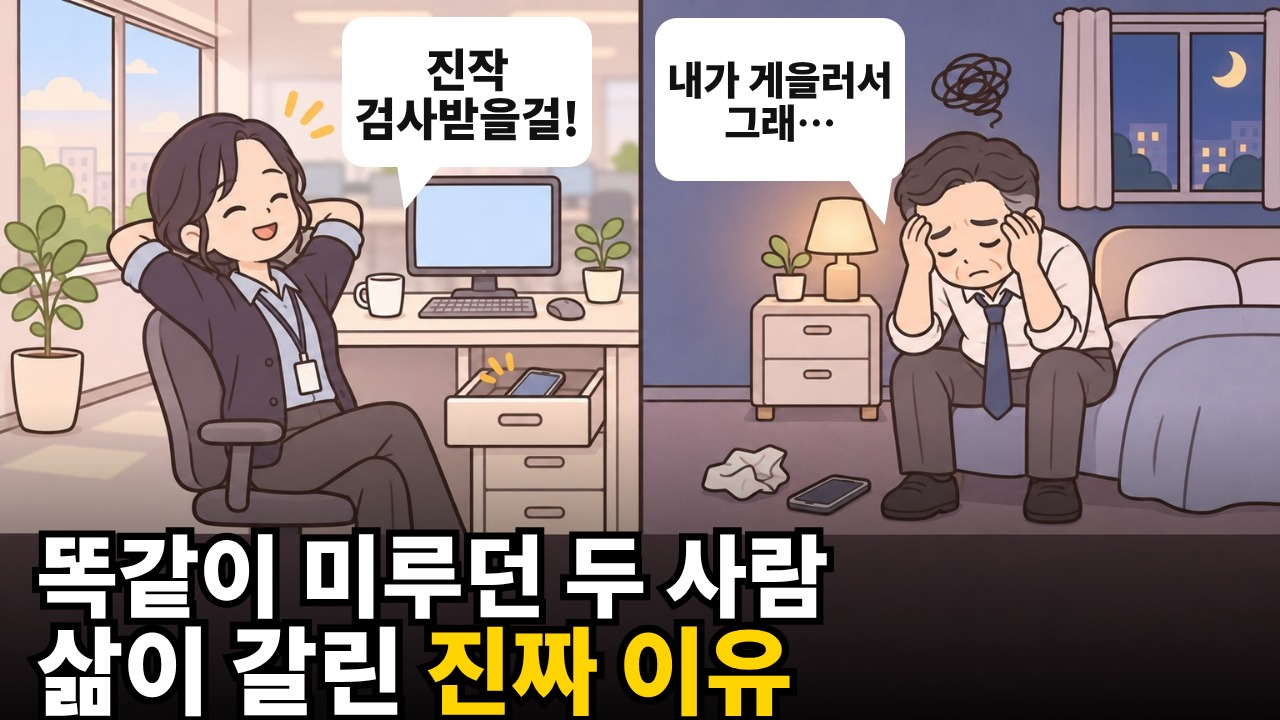
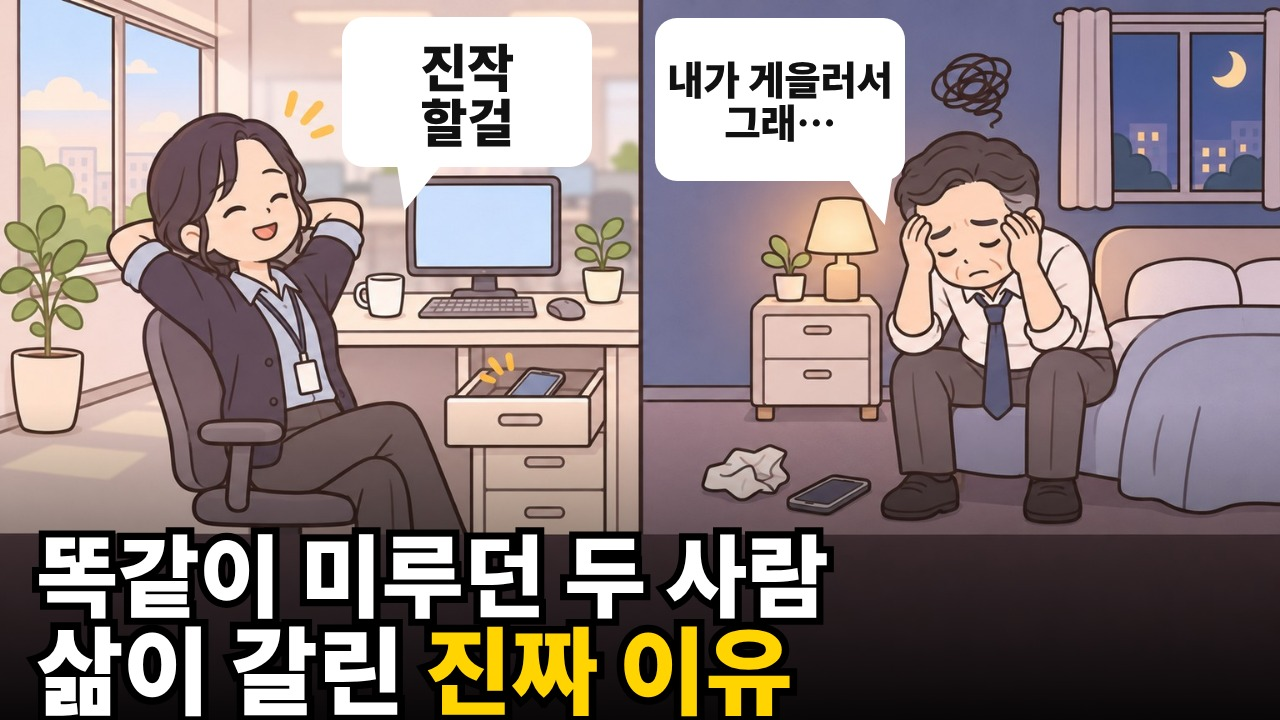
psychology: ADHD 썸네일 A 말풍선 「진작 할걸」 · ADHD 영상 제목·태그 낱말 세기 (adhd_words.py v1.0)
- thumbs_build.py v1.6 · package.json thumb_subs
- adhd_words.py v1.0 → result/topics/adhd_words.md (137개 제목 · 97개 태그, videos.list 3단위, 캐시)

Claude-Session: https://claude.ai/code/session_01PYG2MqrRa1FwGcWhbgqN1W

Changed region(s): [[0.2812, 0.0611, 0.4688, 0.2139]]

diff --git a/psychology/source/adhd_words.py b/psychology/source/adhd_words.py
@@ -1,0 +1,133 @@
+#!/usr/bin/env python3
+# -*- coding: utf-8 -*-
+# VERSION: v1.0 — 2026-11-24 — 신규: ADHD 관련 영상 제목·태그에서 많이 쓰인 낱말
+#   사용자 지시 2026-11-24 "진작 할걸 이렇게 바꾸고 ADHD 관련 영상에서 많이 쓰인 단어 알려줘봐".
+# CHANGELOG
+# | 버전 | 날짜 | 바뀐 것 | 함수 |
+# |---|---|---|---|
+# | v1.0 | 2026-11-24 | 최초 — adhd.csv 영상의 제목 낱말·태그 (videos.list snippet, 캐시) · 낱말마다 영상 수·조회수 가운데값·상위 25% 몫 | fetch · count · main |
+"""psychology/result/topics/adhd.csv (topic_success.py adhd — ADHD 관련 영상 137개, 최근 180일)의 제목 낱말과 태그를 센다.
+→ psychology/result/topics/adhd_words.md
+
+- 제목 낱말 = tools/content_analysis.py words() (끝 조사 거칠게 뗌 · 한 글자·불용어 뺌) — 한 영상에 여러 번 나와도 1번.
+- 태그 = YouTube videos.list part=snippet 의 tags (50개씩 · 1단위) — 응답은 psychology/result/topics/adhd_tags_cache.json.gz 에 두고 다시 받지 않음.
+- 낱말마다: 쓴 영상 수 · 그 영상들의 조회수 가운데값 · '조회수 상위 25%' 영상 중 몫 vs 나머지 중 몫 (배 = 상위 몫 ÷ 나머지 몫).
+한계: 최근 180일 검색 위쪽 꼬리 137개 · 낱말 규칙(형태소 분석 아님) · 인과 아님. 정신건강 정보 영상 — 연구·교육용 (의료 상담 아님).
+실행: python3 psychology/source/adhd_words.py [--offline]   (키: 환경 변수 YOUTUBE_API_KEY — 출력하지 않음)
+"""
+from __future__ import annotations
+
+import argparse
+import collections
+import csv
+import gzip
+import json
+import os
+import statistics as st
+import sys
+import time
+import urllib.parse
+import urllib.request
+from pathlib import Path
+
+ROOT = Path(__file__).resolve().parents[2]
+sys.path.insert(0, str(ROOT / "tools"))
+from content_analysis import words  # noqa: E402
+
+TOP = ROOT / "psychology" / "result" / "topics"
+CACHE = TOP / "adhd_tags_cache.json.gz"
+MIN_N = 4          # 이보다 적은 영상에 나온 낱말은 표에서 뺌
+
+
+def log(stage, **kv):
+    print(f"[{stage}] [{time.strftime('%Y-%m-%dT%H:%M:%S')}] " + " ".join(f"{k}={v}" for k, v in kv.items()), flush=True)
+
+
+def fetch(ids, offline):
+    cache = json.load(gzip.open(CACHE, "rt", encoding="utf-8")) if CACHE.exists() else {}
+    need = [i for i in ids if i not in cache]
+    if need and offline:
+        log("FETCH", level="warn", missing=len(need), note="--offline 이라 태그 없이")
+    elif need:
+        key = os.environ.get("YOUTUBE_API_KEY")
+        if not key:
+            sys.exit("[FETCH] YOUTUBE_API_KEY 없음 — 환경 변수로 넣거나 --offline")
+        for k in range(0, len(need), 50):
+            q = urllib.parse.urlencode({"part": "snippet", "id": ",".join(need[k:k + 50]), "key": key, "maxResults": 50})
+            try:
+                with urllib.request.urlopen(f"https://www.googleapis.com/youtube/v3/videos?{q}", timeout=30) as r:
+                    data = json.load(r)
+            except Exception as ex:                       # 키 값은 출력하지 않음
+                sys.exit(f"[FETCH] videos.list 실패 ({type(ex).__name__}) — 네트워크·할당량 확인 뒤 다시 (--offline 이면 태그 없이)")
+            for it in data.get("items", []):
+                cache[it["id"]] = {"tags": it["snippet"].get("tags", []), "title": it["snippet"].get("title", "")}
+            for i in need[k:k + 50]:
+                cache.setdefault(i, {"tags": [], "title": "", "missing": True})
+        with gzip.open(CACHE, "wt", encoding="utf-8") as f:
+            json.dump(cache, f, ensure_ascii=False)
+        log("FETCH", calls=(len(need) + 49) // 50, units=(len(need) + 49) // 50, cached=len(cache))
+    return cache
+
+
+def norm_tag(t):
+    t = t.strip().lower().replace(" ", "")
+    return t
+
+
+def count(rows, getter):
+    """낱말 → 영상 id 집합."""
+    m = collections.defaultdict(set)
+    for r in rows:
+        for w in set(getter(r)):
+            m[w].add(r["video_id"])
+    return m
+
+
+def table(m, rows, top_ids, title, n_show=40):
+    views = {r["video_id"]: int(r["views"]) for r in rows}
+    n_top, n_rest = len(top_ids), len(rows) - len(top_ids)
+    out = [f"## {title}", "", "| 순위 | 낱말 | 영상 수 | 몫 | 조회수 가운데값 | 상위 25% 중 몫 | 나머지 중 몫 | 배 |", "|---|---|---|---|---|---|---|---|"]
+    items = sorted(((w, ids) for w, ids in m.items() if len(ids) >= MIN_N), key=lambda x: (-len(x[1]), x[0]))
+    for i, (w, ids) in enumerate(items[:n_show], 1):
+        a = len(ids & top_ids) / n_top if n_top else 0
+        b = len(ids - top_ids) / n_rest if n_rest else 0
+        lift = f"{a / b:.1f}" if b else ("∞" if a else "—")
+        out.append(f"| {i} | {w} | {len(ids)} | {len(ids) / len(rows) * 100:.0f}% | {st.median(views[x] for x in ids):,.0f} | {a * 100:.0f}% | {b * 100:.0f}% | {lift} |")
+    return out, items
+
+
+def main(argv=None):
+    ap = argparse.ArgumentParser(description="ADHD 관련 영상 제목·태그 낱말")
+    ap.add_argument("--offline", action="store_true")
+    a = ap.parse_args(argv)
+    t0 = time.time()
+    try:
+        rows = list(csv.DictReader(open(TOP / "adhd.csv", encoding="utf-8-sig")))
+    except OSError as ex:
+        sys.exit(f"[LOAD] adhd.csv 없음 ({ex}) — python3 psychology/source/topic_success.py adhd 먼저")
+    log("LOAD", videos=len(rows), source="psychology/result/topics/adhd.csv")
+    cache = fetch([r["video_id"] for r in rows], a.offline)
+    vs = sorted(int(r["views"]) for r in rows)
+    q3 = vs[int(len(vs) * 0.75)]
+    top_ids = {r["video_id"] for r in rows if int(r["views"]) >= q3}
+    log("SPLIT", top25_views_min=q3, top=len(top_ids), rest=len(rows) - len(top_ids))
+    tw, titems = table(count(rows, lambda r: words(r["title"])), rows, top_ids, "1. 제목 낱말 (영상 수 순)")
+    with_tags = [r for r in rows if cache.get(r["video_id"], {}).get("tags")]
+    tg, gitems = table(count(with_tags, lambda r: [norm_tag(t) for t in cache[r["video_id"]]["tags"]]), with_tags,
+                       top_ids & {r["video_id"] for r in with_tags}, f"2. 태그 (태그가 있는 영상 {len(with_tags)}개 · 띄어쓰기·대소문자 무시)")
+    L = ["# ADHD 관련 영상에서 많이 쓰인 낱말", "",
+         f"> `psychology/source/adhd_words.py` v1.0 · {time.strftime('%Y-%m-%d')} · 사용자 지시 \"ADHD 관련 영상에서 많이 쓰인 단어 알려줘봐\"",
+         f"> 자료: `adhd.csv` {len(rows)}개 (최근 180일 · ADHD 제목 · 검색 위쪽 꼬리) · 조회수 상위 25% = {q3:,}회 이상 {len(top_ids)}개. "
+         f"'배' = 상위 25% 영상 중 그 낱말을 쓴 몫 ÷ 나머지 중 몫 (1보다 크면 잘 된 영상 쪽에 더 많음 · 표본 작음). 영상 {MIN_N}개 미만 낱말은 뺌. 인과 아님.", ""]
+    L += tw + [""] + tg + [""]
+    (TOP / "adhd_words.md").write_text("\n".join(L) + "\n", encoding="utf-8")
+    for w, ids in titems[:15]:
+        log("TITLE", word=w, videos=len(ids))
+    for w, ids in gitems[:15]:
+        log("TAG", tag=w, videos=len(ids))
+    log("DONE", out=(TOP / "adhd_words.md").relative_to(ROOT), seconds=round(time.time() - t0, 1))
+    return 0
+
+
+if __name__ == "__main__":
+    sys.exit(main())

diff --git a/psychology/source/thumbs_build.py b/psychology/source/thumbs_build.py
@@ -1,6 +1,7 @@
 #!/usr/bin/env python3
 # -*- coding: utf-8 -*-
-# VERSION: v1.5 — 2026-11-24 — adhd-ab-2026-11 실험 문구·A 말풍선을 성공 사례 썸네일 분석(thumb_text_patterns.md)으로 — 사용자 지시 "실험형 썸네일 문구 성공 사례 분석해서 한거야? 분석해서 만들고 이유를 아니까를 진작에 할걸(예시) 이런식으로 고쳐봐"
+# VERSION: v1.6 — 2026-11-24 — adhd-ab-2026-11 A 말풍선 「진작 할걸」 (사용자 지시 "진작 할걸 이렇게 바꾸고")
+# 이전 v1.5 — 2026-11-24 — adhd-ab-2026-11 실험 문구·A 말풍선을 성공 사례 썸네일 분석(thumb_text_patterns.md)으로 — 사용자 지시 "실험형 썸네일 문구 성공 사례 분석해서 한거야? 분석해서 만들고 이유를 아니까를 진작에 할걸(예시) 이런식으로 고쳐봐"
 # 이전 v1.4 — 2026-11-24 — 편마다 3안을 따로 (variants: 안마다 문구 2줄·말풍선 여러 개) — 사용자 지시 "둘다 말풍선 넣고 두번재 줄 괄호 제거해 그리고 나머지 2개는 실험형으로 너가 문구를 만드는 거야"
 # 이전 v1.3 — 2026-11-24 — adhd-ab-2026-11 (일상툰 · 그림 아래 어두운 띠 y 74% 부터): 편마다 글 상자(l1·l2)·꼬리 방향·설명 줄을 따로 — 사용자 지시 "1번으로 하고 썸네일 만들어봐"
 # 이전 v1.2 — 2026-11-13 — 말풍선 꼬리가 말하는 사람(말풍선 왼쪽 아래) 쪽으로 기울게 (tail right · 18%)
@@ -10,6 +11,7 @@
 # CHANGELOG
 # | 버전 | 날짜 | 바뀐 것 | 함수 |
 # |---|---|---|---|
+# | v1.6 | 2026-11-24 | adhd-ab-2026-11 A 말풍선 「진작 할걸」 (사용자 문구) | EP |
 # | v1.5 | 2026-11-24 | adhd-ab-2026-11 실험 1·2 = 성공 사례 갈래(특징+숫자 · 이유형) · A 말풍선 = 인물 속마음 「진작 검사받을걸!」 | EP |
 # | v1.4 | 2026-11-24 | variants (안마다 문구·말풍선 여러 개) — package.json thumb_tests 와 글자 대조 | build |
 # | v1.3 | 2026-11-24 | 편마다 l1·l2 글 상자 · tail·tailPos · note (adhd-ab-2026-11) | EP · bubble · build |
@@ -70,13 +72,13 @@ EP = {
     "adhd-ab-2026-11": {
         "l1": [36, 524, 1208, 94], "l2": [36, 616, 1000, 100],
         # v1.4 두 사람 모두 말풍선 — A 머리 오른쪽 사무실 벽(모니터 위) · B 머리 왼쪽 어두운 벽 (사람·스탠드·낙서 구름을 가리지 않음)
-        "bubbles": [[[410, 20, 300, 180], "진작\n검사받을걸!", "right", 0.18], [[786, 22, 300, 196], "내가 게을러서\n그래…", "left", 0.78]],
+        "bubbles": [[[410, 20, 300, 180], "진작\n할걸", "right", 0.18], [[786, 22, 300, 196], "내가 게을러서\n그래…", "left", 0.78]],
         "variants": [
             ("본안 — 사용자 문구", [[["나도 ", "W"], ["ADHD", "Y"], ["인가? 고민했던 두 사람", "W"]], [["한 명은 ", "W"], ["30년을 자책했다", "R"]]]),
             ("실험 1 — 특징·비밀형 + 숫자 (성공 사례 배수 52.0 · 숫자 44.1)", [[["게으름인 줄 알았던 ", "W"], ["성인 ADHD", "Y"]], [["스스로 확인할 ", "W"], ["3가지", "Y"]]]),
             ("실험 2 — 이유형 (성공 사례 배수 54.2)", [[["똑같이 미루던 두 사람", "W"]], [["삶이 갈린 ", "W"], ["진짜 이유", "Y"]]]),
         ],
-        "note": "본안 = 사용자 문구 · 실험 1·2 = 성공 사례 썸네일 갈래(psychology/result/outliers/thumb_text_patterns.md) · 말풍선 = 인물 속마음(갈래 배수 57.5) A 「진작 검사받을걸!」·B(대본 46번) — 제목이 정해지면 persona_loop title 단계",
+        "note": "본안 = 사용자 문구 · 실험 1·2 = 성공 사례 썸네일 갈래(psychology/result/outliers/thumb_text_patterns.md) · 말풍선 = 인물 속마음(갈래 배수 57.5) A 「진작 할걸」(사용자 문구)·B(대본 46번) — 제목이 정해지면 persona_loop title 단계",
         "_": "B 머리(x 70~82% · y 18~42%) 왼쪽 어두운 벽 (스탠드 x 63~69% · y 27% 아래는 비움) · A 쪽은 비워 둠",
     },
 }

diff --git a/psychology/result/topics/adhd_words.md b/psychology/result/topics/adhd_words.md
@@ -1,0 +1,91 @@
+# ADHD 관련 영상에서 많이 쓰인 낱말
+
+> `psychology/source/adhd_words.py` v1.0 · 2026-11-24 · 사용자 지시 "ADHD 관련 영상에서 많이 쓰인 단어 알려줘봐"
+> 자료: `adhd.csv` 137개 (최근 180일 · ADHD 제목 · 검색 위쪽 꼬리) · 조회수 상위 25% = 19,993회 이상 35개. '배' = 상위 25% 영상 중 그 낱말을 쓴 몫 ÷ 나머지 중 몫 (1보다 크면 잘 된 영상 쪽에 더 많음 · 표본 작음). 영상 4개 미만 낱말은 뺌. 인과 아님.
+
+## 1. 제목 낱말 (영상 수 순)
+
+| 순위 | 낱말 | 영상 수 | 몫 | 조회수 가운데값 | 상위 25% 중 몫 | 나머지 중 몫 | 배 |
+|---|---|---|---|---|---|---|---|
+| 1 | adhd | 137 | 100% | 2,350 | 100% | 100% | 1.0 |
+| 2 | 성인 | 47 | 34% | 2,411 | 37% | 33% | 1.1 |
+| 3 | 이유 | 21 | 15% | 2,050 | 11% | 17% | 0.7 |
+| 4 | 정신 | 14 | 10% | 3,267 | 14% | 9% | 1.6 |
+| 5 | 의사 | 12 | 9% | 2,571 | 6% | 10% | 0.6 |
+| 6 | 특징 | 12 | 9% | 700 | 9% | 9% | 1.0 |
+| 7 | 아이 | 11 | 8% | 1,446 | 0% | 11% | 0.0 |
+| 8 | 가지 | 10 | 7% | 349 | 0% | 10% | 0.0 |
+| 9 | 진짜 | 9 | 7% | 523 | 3% | 8% | 0.4 |
+| 10 | 10 | 7 | 5% | 15,668 | 9% | 4% | 2.2 |
+| 11 | 방법 | 7 | 5% | 210 | 0% | 7% | 0.0 |
+| 12 | 치료 | 6 | 4% | 28,422 | 9% | 3% | 2.9 |
+| 13 | 콘서타 | 6 | 4% | 1,265 | 3% | 5% | 0.6 |
+| 14 | 나도 | 5 | 4% | 19,993 | 9% | 2% | 4.4 |
+| 15 | 당신 | 5 | 4% | 13,125 | 6% | 3% | 1.9 |
+| 16 | 배우자 | 5 | 4% | 149,125 | 9% | 2% | 4.4 |
+| 17 | 부작용 | 5 | 4% | 59,976 | 9% | 2% | 4.4 |
+| 18 | 조용한 | 5 | 4% | 112 | 0% | 5% | 0.0 |
+| 19 | 증상 | 5 | 4% | 1,144 | 0% | 5% | 0.0 |
+| 20 | 진실 | 5 | 4% | 3,311 | 0% | 5% | 0.0 |
+| 21 | 혹시 | 5 | 4% | 3,452 | 6% | 3% | 1.9 |
+| 22 | 내가 | 4 | 3% | 7,265 | 3% | 3% | 1.0 |
+| 23 | 되는 | 4 | 3% | 4,178 | 3% | 3% | 1.0 |
+| 24 | 먹고 | 4 | 3% | 3,464 | 3% | 3% | 1.0 |
+| 25 | 메디키넷 | 4 | 3% | 1,436 | 0% | 4% | 0.0 |
+| 26 | 모든 | 4 | 3% | 50,362 | 9% | 1% | 8.7 |
+| 27 | 아토목세틴 | 4 | 3% | 1,296 | 0% | 4% | 0.0 |
+| 28 | 엄마 | 4 | 3% | 35,262 | 6% | 2% | 2.9 |
+| 29 | 원인 | 4 | 3% | 84,116 | 6% | 2% | 2.9 |
+| 30 | 이호선상담소 | 4 | 3% | 172,460 | 9% | 1% | 8.7 |
+| 31 | 일상 | 4 | 3% | 45,419 | 6% | 2% | 2.9 |
+| 32 | 자가진단 | 4 | 3% | 110 | 0% | 4% | 0.0 |
+| 33 | 전문 | 4 | 3% | 1,536 | 3% | 3% | 1.0 |
+| 34 | 집중력 | 4 | 3% | 40,134 | 6% | 2% | 2.9 |
+| 35 | 치료제 | 4 | 3% | 25,708 | 9% | 1% | 8.7 |
+| 36 | 하는 | 4 | 3% | 8,602 | 3% | 3% | 1.0 |
+
+## 2. 태그 (태그가 있는 영상 97개 · 띄어쓰기·대소문자 무시)
+
+| 순위 | 낱말 | 영상 수 | 몫 | 조회수 가운데값 | 상위 25% 중 몫 | 나머지 중 몫 | 배 |
+|---|---|---|---|---|---|---|---|
+| 1 | adhd | 40 | 41% | 2,998 | 46% | 39% | 1.2 |
+| 2 | 정신과 | 18 | 19% | 3,178 | 15% | 20% | 0.8 |
+| 3 | 성인adhd | 16 | 16% | 1,490 | 15% | 17% | 0.9 |
+| 4 | adhd치료 | 15 | 15% | 1,220 | 12% | 17% | 0.7 |
+| 5 | adhd증상 | 14 | 14% | 296 | 8% | 17% | 0.5 |
+| 6 | 정신과의사 | 13 | 13% | 1,220 | 4% | 17% | 0.2 |
+| 7 | 신경정신과 | 11 | 11% | 3,044 | 8% | 13% | 0.6 |
+| 8 | adhd약 | 10 | 10% | 2,123 | 8% | 11% | 0.7 |
+| 9 | 정신건강의학과 | 10 | 10% | 1,254 | 0% | 14% | 0.0 |
+| 10 | 상담 | 9 | 9% | 17,322 | 15% | 7% | 2.2 |
+| 11 | 조용한adhd | 9 | 9% | 114 | 0% | 13% | 0.0 |
+| 12 | 집중력 | 9 | 9% | 10,482 | 12% | 8% | 1.4 |
+| 13 | 우울증 | 8 | 8% | 34,272 | 15% | 6% | 2.7 |
+| 14 | 정신과전문의 | 8 | 8% | 1,265 | 0% | 11% | 0.0 |
+| 15 | #adhd | 7 | 7% | 1,144 | 0% | 10% | 0.0 |
+| 16 | adhd특징 | 7 | 7% | 175 | 4% | 8% | 0.5 |
+| 17 | 고원장 | 7 | 7% | 1,220 | 0% | 10% | 0.0 |
+| 18 | 공황장애 | 7 | 7% | 51,223 | 15% | 4% | 3.6 |
+| 19 | 마음쉼 | 7 | 7% | 1,220 | 0% | 10% | 0.0 |
+| 20 | 마음쉼tv | 7 | 7% | 1,220 | 0% | 10% | 0.0 |
+| 21 | 스트레스 | 7 | 7% | 10,482 | 12% | 6% | 2.0 |
+| 22 | 티빙에서스트리밍 | 7 | 7% | 149,125 | 19% | 3% | 6.8 |
+| 23 | adhd진단 | 6 | 6% | 9,176 | 8% | 6% | 1.4 |
+| 24 | adhd테스트 | 6 | 6% | 9,080 | 8% | 6% | 1.4 |
+| 25 | 극복 | 6 | 6% | 1,760 | 4% | 7% | 0.5 |
+| 26 | 심리상담 | 6 | 6% | 2,134 | 4% | 7% | 0.5 |
+| 27 | 육아 | 6 | 6% | 47,254 | 12% | 4% | 2.7 |
+| 28 | adhd검사 | 5 | 5% | 32 | 0% | 7% | 0.0 |
+| 29 | adhd자가진단 | 5 | 5% | 2,492 | 4% | 6% | 0.7 |
+| 30 | 가족 | 5 | 5% | 10,482 | 8% | 4% | 1.8 |
+| 31 | 교양 | 5 | 5% | 7,672 | 8% | 4% | 1.8 |
+| 32 | 금쪽이 | 5 | 5% | 3,311 | 4% | 6% | 0.7 |
+| 33 | 도파민중독 | 5 | 5% | 1,831 | 4% | 6% | 0.7 |
+| 34 | 메디키넷 | 5 | 5% | 1,101 | 0% | 7% | 0.0 |
+| 35 | 병원 | 5 | 5% | 16,059 | 8% | 4% | 1.8 |
+| 36 | 부모교육 | 5 | 5% | 3,311 | 4% | 6% | 0.7 |
+| 37 | 부부 | 5 | 5% | 87,329 | 12% | 3% | 4.1 |
+| 38 | 성인adhd증상 | 5 | 5% | 1,831 | 0% | 7% | 0.0 |
+| 39 | 자녀교육 | 5 | 5% | 3,311 | 4% | 6% | 0.7 |
+| 40 | 콘서타 | 5 | 5% | 1,112 | 4% | 6% | 0.7 |
+

diff --git a/guides/status.md b/guides/status.md
@@ -1,6 +1,7 @@
 # 지금 상태·다음 할 일 (인수인계)
 
-버전: v4.56 — 2026-11-24 — **심리 — 성공 사례 썸네일 문구 갈래 분석 + ADHD 썸네일 실험안** (사용자 지시 "실험형 썸네일 문구 성공 사례 분석해서 한거야? 분석해서 만들고 이유를 아니까를 진작에 할걸(예시) 이런식으로 고쳐봐"): 새 도구 `psychology/source/thumb_text_patterns.py` v1.0 → `psychology/result/outliers/thumb_text_patterns.md` (성공 사례 94장 · 주요 문구 이유형 배수 54.2 · 특징·비밀형 52.0 · 숫자 44.1 · 전체 30.0 · 보조 문구 인물 속마음 57.5) → ADHD 실험 1 「게으름인 줄 알았던 성인 ADHD / 스스로 확인할 3가지」 · 실험 2 「똑같이 미루던 두 사람 / 삶이 갈린 진짜 이유」 · A 말풍선 「진작 검사받을걸!」 (`thumbs_build.py` v1.5). 남은 것: 제목 → persona_loop title 단계
+버전: v4.57 — 2026-11-24 — **심리 — ADHD 썸네일 A 말풍선 「진작 할걸」 + ADHD 영상 많이 쓰인 낱말** (사용자 지시 "진작 할걸 이렇게 바꾸고 ADHD 관련 영상에서 많이 쓰인 단어 알려줘봐"): `thumbs_build.py` v1.6 · 새 도구 `psychology/source/adhd_words.py` v1.0 → `psychology/result/topics/adhd_words.md` (ADHD 영상 137개 제목 낱말·태그 97개 — 성인 34% · 이유 15% · 나도 상위 25% 쪽 4.4배 · 가지·자가진단·증상은 조회수 낮은 쪽)
+이전 v4.56 — 2026-11-24 — **심리 — 성공 사례 썸네일 문구 갈래 분석 + ADHD 썸네일 실험안** (사용자 지시 "실험형 썸네일 문구 성공 사례 분석해서 한거야? 분석해서 만들고 이유를 아니까를 진작에 할걸(예시) 이런식으로 고쳐봐"): 새 도구 `psychology/source/thumb_text_patterns.py` v1.0 → `psychology/result/outliers/thumb_text_patterns.md` (성공 사례 94장 · 주요 문구 이유형 배수 54.2 · 특징·비밀형 52.0 · 숫자 44.1 · 전체 30.0 · 보조 문구 인물 속마음 57.5) → ADHD 실험 1 「게으름인 줄 알았던 성인 ADHD / 스스로 확인할 3가지」 · 실험 2 「똑같이 미루던 두 사람 / 삶이 갈린 진짜 이유」 · A 말풍선 「진작 검사받을걸!」 (`thumbs_build.py` v1.5). 남은 것: 제목 → persona_loop title 단계
 이전 v4.55 — 2026-11-24 — **심리 — ADHD 썸네일 3안 다시** (사용자 지시 "둘다 말풍선 넣고 두번재 줄 괄호 제거해 그리고 나머지 2개는 실험형으로 너가 문구를 만드는 거야"): 본안 「나도 ADHD인가? 고민했던 두 사람 / 한 명은 30년을 자책했다」 · 실험 1 「ADHD 검사, 시간 낭비일까? / 안 받은 사람의 30년」 · 실험 2 「게으른 줄 알았던 두 사람 / 한 명만 진짜 이유를 알았다」 · 말풍선 A 「이유를 아니까 편해」 · B 「내가 게을러서 그래…」 (`thumbs_build.py` v1.4 · `package.json` thumb_tests). 남은 것: 제목 → persona_loop title 단계
 이전 v4.54 — 2026-11-24 — **심리 — ADHD 썸네일 3안** (사용자 지시 "썸네일 문구: 나도 ADHD인가? 고민했던 두 사람 / (삶의 질이 정반대) 이런식으로 … 아랫줄 부분 너가 써봐" → "1번으로 하고 썸네일 만들어봐"): `psychology/source/adhd-ab-2026-11/package.json` (윗줄 사용자 문구 · 아랫줄 「(한 명은 30년을 자책했다)」 · 보조 「내가 게을러서 그래…」) → `psychology/source/thumbs_build.py` v1.3 → `thumbnails/thumbnail_1~3.jpg` (본안 · 보조 없음 · 강조 색 바꿈). 남은 것: 제목 → persona_loop title 단계 (제목이 있어야 피드 시험)
 이전 v4.55 — 2026-11-24 — **위기 채널 — 한라산 심정지 대본 v1.1 (심정지 위험 중심)** (사용자 지시 "그런데 국립공원에서 숨진 사람의 절반은, 낙사가 아닌 등산 중 심정지 때문이었습니다. 이렇게 바꾸고 심정지 위험을 알리는데 중점을 맞춰서 디테일하게 묘사를 해 그리고 다른 심정지 사례도 간단하게 언급해서 위험성을 알려"): `crisis/source/hallasan-simjeongji-2026-11/대본_초안.txt` v1.1 — 도입 문장 교체 · 심정지 순간·4분 · 2020 지리산 헬기 불시착 · 왜 산에서 · 다른 사례 5건(2023 둘레길 · 2025-05 성판악 · 2026-08 청량산 · 2026-10 운악산 · 2026-10 성판악) · 급성심장정지 통계 · 옆 사람이 쓰러졌다면 · 약 7.5분 · 페르소나 관문 안 거친 초안.
